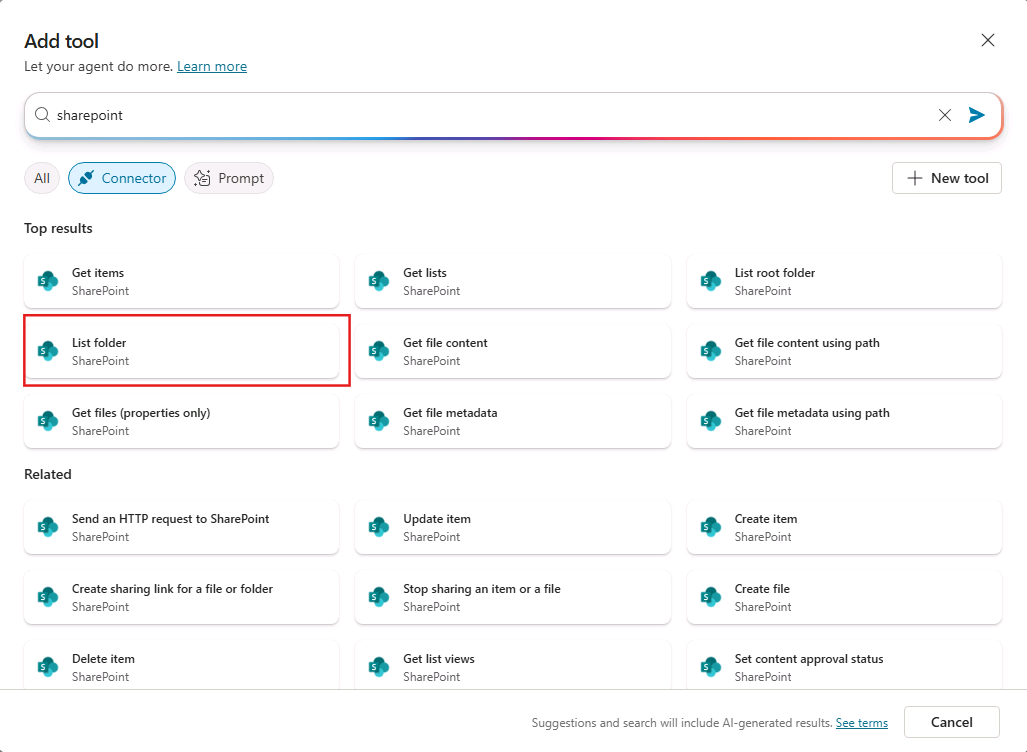
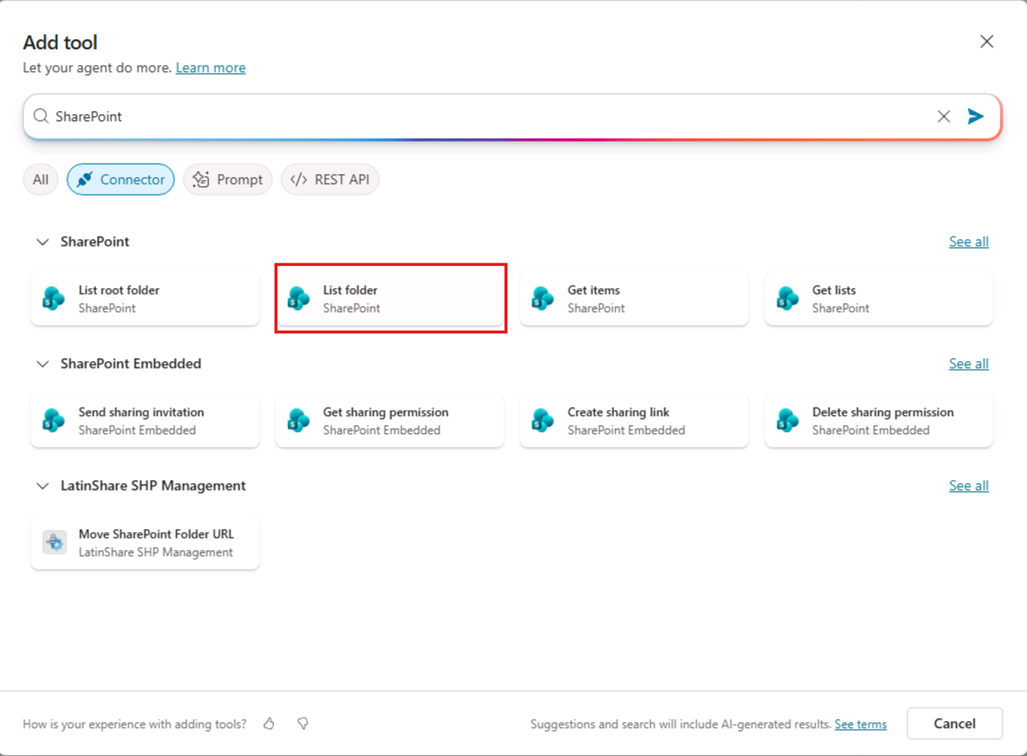
Merge pull request #27 from Desiderio25/Fix/lab3.1/update-instructions
fix(lab03/ex01): update connector tool steps for current ui and grammar

Pull request: fix(lab03/ex01): update connector tool steps for current ui and grammar
## Summary

Updates the `Create a connector tool` lab (Lab 3.1) to match the current Copilot Studio UI and fixes grammar and structure throughout the exercise.

## Changes

- Updated UI labels to match the current product: `Add tool` window/page references changed to **dialog**, **Add tool** button changed to **+ Add tool**, and **Start new test session** changed to **New chat**.
- Added the **Enter** key option to the connector search step and the **Enter custom value** path for the Site Address input.
- Fixed a broken string literal (a stray double quote) in the Additional details description step.
- Split the Site Address step into two single-action steps and added a step to return to the agent overview page before editing instructions.
- Corrected grammar and punctuation (commas before `then`, missing comma after **Tools**).
- Refreshed the `add-tool-list-folder` screenshot to reflect the current UI.

## Files changed

- `Instructions/Labs/03-Connector-actions/01-create-connector-action.md` -- UI, grammar, and structure corrections
- `Instructions/Labs/Media/add-tool-list-folder.png` -- updated screenshot

diff --git a/Instructions/Labs/03-Connector-actions/01-create-connector-action.md b/Instructions/Labs/03-Connector-actions/01-create-connector-action.md
@@ -28,17 +28,17 @@ Create a connector tool using the SharePoint List Folder prebuilt connector and 
 1. In the sidebar, select **Agents**.
 1. Select **Microsoft 365 Copilot**.
 1. Under **Agents**, select your **Product Support** agent.
-1. Under **Tools** select **Add tool**.
-1. In the **Add tool** window, select the **Connector** button to filter for Connector tools then enter `SharePoint` in the **Search** bar and select **Search**. Wait for relevant connectors to be displayed in the window.
+1. Under **Tools**, select **+ Add tool**.
+1. In the **Add tool** dialog, select the **Connector** button to filter for Connector tools, then enter `SharePoint` in the **Search** bar and select **Search** or press **Enter**. Wait for relevant connectors to be displayed in the window.
 1. Browse and select the **List Folder** SharePoint connector.
 
     ![Screenshot of the Add tool window highlighting the List folder connector.](../Media/add-tool-list-folder.png)
 1. The modal window displays a connection for the SharePoint connector. A green checkmark will be displayed next to the connector when your connection is active. You may select the **...** to view details about the connection. If the status is `Not connected`, select the dropdown next to **Not connected** and select **Create new connection**.
 
     ![Screenshot of the Add tool window highlighting the Create new connection button.](../Media/create-new-connection.png)
-1. On the **Connect to SharePoint** page, select **Connect directly (cloud services)** then select **Create**.
+1. On the **Connect to SharePoint** dialog, select **Connect directly (cloud services)**, then select **Create**.
 1. You will be prompted to sign in. Sign in using the M365 account you're using for the exercise.
-1. On the **Add tool** page, after a connection is established, select **Add and configure** to add the tool to your agent.
+1. On the **Add tool** dialog, after a connection is established, select **Add and configure** to add the tool to your agent.
 1. Confirm that the **List folder - connector** tool is listed in the **Tools** section of your agent.
 
     ![Screenshot of the Tools section of the Product Support agent after the connector tool has been added.](../Media/connector-tool-added.png)
@@ -47,13 +47,14 @@ Create a connector tool using the SharePoint List Folder prebuilt connector and 
 
 Configure the properties of the connector tool for the agent.
 
-1. From the **Product Support** agent page, under **Tools** select the **List folder - connector** tool you added in the previous section.
+1. From the **Product Support** agent page, under **Tools**, select the **List folder - connector** tool you added in the previous section.
 1. In the **Name** text box, enter `List product support files`.
 1. In the **Description** text box, enter `List product support files available in the Products folder`.
 1. Select the toggle next to **Additional details** to reveal additional properties.
-1. In the **Description** text box in the **Additional details** section, enter `Please log in to access the Product Support SharePoint site."
-1. In the **Inputs** section,  locate the **Site Address** input. In the **Value** text box, enter the URL to your **Product Support** SharePoint site in the format `https://DOMAIN.sharepoint.com/sites/ProductSupport` then select **Done**.
-1. Next, locate the **File Identifier** input. Set the **Fill using** field to **Custom value** from the drop-down.
+1. In the **Description** text box in the **Additional details** section, enter `Please log in to access the Product Support SharePoint site`.
+1. In the **Inputs** section, locate the **Site Address** input.
+1. In the **Value** text box, select your **Product Support** SharePoint site from the drop-down, or select **Enter custom value** and enter the URL in the format `https://DOMAIN.sharepoint.com/sites/ProductSupport`.
+1. Next, locate the **File Identifier** input. Set the **Fill using** field to **Custom**.
 1. In the **Value** text box for **File Identifier**, enter `Products`.
 1. Select **Save** at the top of the page to save your changes.
    
@@ -61,6 +62,7 @@ Configure the properties of the connector tool for the agent.
 
 Let's also update your agent's instructions, providing guidance to the agent for how to use the connector tool.
 
+1. Return to the overview page for your **Product Support** agent.
 1. From the **Details** section of your **Product Support** agent in Copilot Studio, select **Edit**.
 1. In the **Instructions** text box, add the following to the existing instructions text: `When asked about available support resources, use the SharePoint connector to list the files in the Products folder and let the user know the SharePoint Connector was used.`
 1. Select **Save**.
@@ -68,8 +70,8 @@ Let's also update your agent's instructions, providing guidance to the agent for
 ## Test your agent with the tool
 
 1. Expand the **Test your agent** pane on the right side of your agent's detail page.
-1. Select the **Start new test session** button in the test pane to load your agent's latest changes.
-1. In the message box, enter `What product support files are available?` then send the message.
+1. Select the **New chat** button in the test pane to load your agent's latest changes.
+1. In the message box, enter `What product support files are available?`, then send the message.
 1. Notice that your agent responds with a comment about the connector that was used, as instructed, and lists the files available in the Products folder.
 
     ![Screenshot of the test pane results while testing the list folder connector.](../Media/test-agent-connector.png)